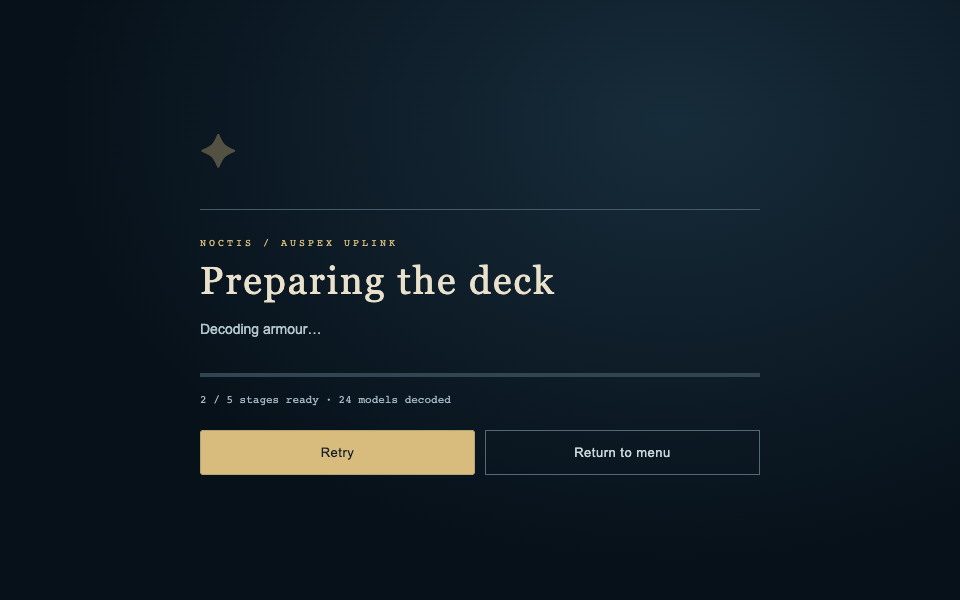
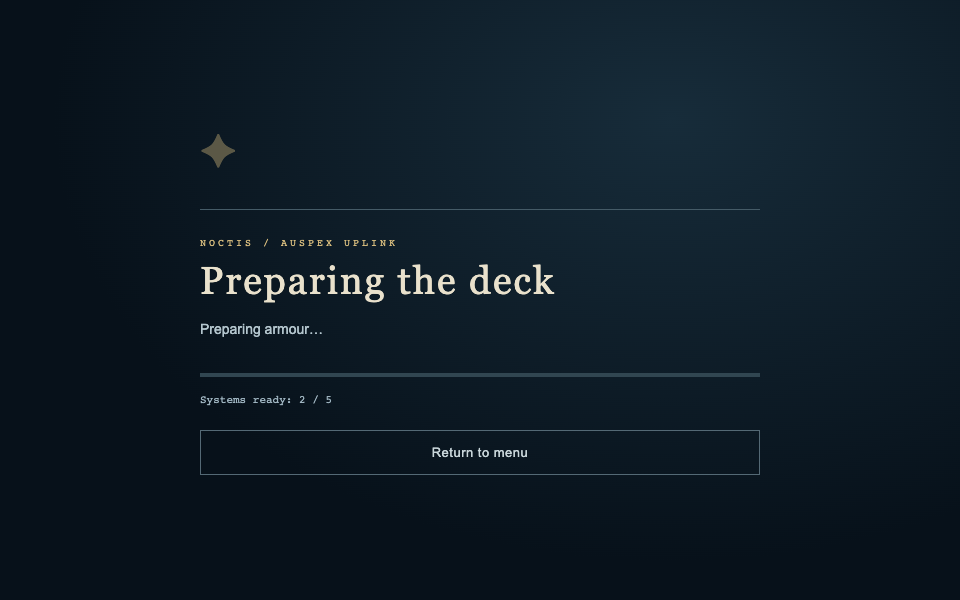
snapshot snap_01a1e9a33b577000a80e: checkpoint: Vérifications et version Reload

Changed region(s): [[0.1875, 0.66, 0.5625, 0.81], [0.2188, 0.54, 0.3438, 0.57], [0.5938, 0.75, 0.6875, 0.78]]

diff --git a/scripts/check-i18n-fps.ts b/scripts/check-i18n-fps.ts
@@ -7,8 +7,8 @@ try{
  const page=await browser.newPage({locale:language==='fr'?'fr-FR':'en-GB',viewport:{width:1280,height:800}}),errors:string[]=[],failed:string[]=[],optionalMissing:string[]=[];
  page.on('pageerror',e=>errors.push(e.message));page.on('response',r=>{if(r.status()>=400)(r.url().endsWith('/music-local/manifest.json')?optionalMissing:failed).push(r.url());});
  await page.goto('http://127.0.0.1:18231/fps.html?duel=1&seed=527');
- await page.waitForFunction(()=>(window as any).__NL?.bodies?.length===4);
- await page.click('#fps-settings');await page.click('#fps-vox-test');await page.waitForTimeout(3500);await page.click('#fps-vox-nightlords');await page.waitForTimeout(4500);await page.click('#fps-settings-close');
+ await page.locator('#fps-deploy').click();
+ await page.keyboard.press('KeyP');await page.click('#fps-pause-settings');await page.click('#fps-vox-test');await page.waitForTimeout(3500);await page.click('#fps-vox-nightlords');await page.waitForTimeout(4500);await page.click('[data-shell-close]');await page.click('#fps-resume');
  await page.mouse.click(640,400);await page.waitForTimeout(3500);
  await page.keyboard.down('Space');
  for(let i=0;i<20;i++){await page.waitForTimeout(1000);if(await page.evaluate(()=>(window as any).__NL?.done))break;}
@@ -21,9 +21,9 @@ try{
  await page.screenshot({path:`docs/i18n/fps-duel-${language}.png`});
  assert.match(await page.locator('#msg').innerText(),language==='fr'?/Duel remporté|Armure détruite/:/Duel won|Armour destroyed/);
  await page.goto('http://127.0.0.1:18231/fps.html?seed=527');await page.waitForFunction(()=>(window as any).__NL?.genestealersLoaded===6);
- await page.mouse.click(640,400);await page.keyboard.down('KeyW');await page.waitForTimeout(1500);await page.keyboard.up('KeyW');await page.keyboard.down('Space');await page.waitForTimeout(1200);await page.keyboard.up('Space');await page.keyboard.press('KeyP');await page.keyboard.press('Escape');
- await page.click('#fps-settings');await page.locator(`#fps-settings-panel [data-locale="${language==='fr'?'en':'fr'}"]`).click();
- const before=await page.evaluate(()=>(window as any).__NL.playerPosition);await page.locator(`#fps-settings-panel [data-locale="${language}"]`).click();assert.deepEqual(await page.evaluate(()=>(window as any).__NL.playerPosition),before);await page.click('#fps-settings-close');
+ await page.locator('#fps-deploy').click();await page.keyboard.down('KeyW');await page.waitForTimeout(1500);await page.keyboard.up('KeyW');await page.keyboard.down('Space');await page.waitForTimeout(1200);await page.keyboard.up('Space');await page.keyboard.press('KeyP');
+ await page.click('#fps-pause-settings');await page.locator(`.shell-modal [data-locale="${language==='fr'?'en':'fr'}"]`).click();
+ const before=await page.evaluate(()=>(window as any).__NL.playerPosition);await page.locator(`.shell-modal [data-locale="${language}"]`).click();assert.deepEqual(await page.evaluate(()=>(window as any).__NL.playerPosition),before);await page.click('[data-shell-close]');
  const text=await page.locator('body').innerText();if(language==='en')assert.ok(!/[àâçéèêëîïôùûüœ]/i.test(text));
  await page.screenshot({path:`docs/i18n/fps-mission-${language}.png`});
  const mission=await page.evaluate(()=>(window as any).__NL);assert.ok(mission.tick>0);assert.equal(mission.genestealersLoaded,6);

diff --git a/scripts/check-i18n-smoke.ts b/scripts/check-i18n-smoke.ts
@@ -5,20 +5,20 @@ const browser=await chromium.launch({headless:true,args:['--use-angle=metal']});
 try{
  const context=await browser.newContext({locale:'en-GB',viewport:{width:1280,height:800}}),page=await context.newPage(),errors:string[]=[];
  page.on('pageerror',e=>errors.push(e.message));
- await page.goto('http://127.0.0.1:18231/');await page.locator('#start').waitFor();
+ await page.goto('http://127.0.0.1:18231/strategy.html');await page.locator('#start').waitFor();
  assert.equal(await page.locator('html').getAttribute('lang'),'en');
  await page.screenshot({path:'docs/i18n/welcome-en.png'});writeFileSync('docs/i18n/welcome-en.txt',await page.locator('body').innerText());
  await page.locator('#modal [data-locale="fr"]').click();assert.match(await page.locator('#start').innerText(),/DÉPLOYER/);
  await page.locator('#modal [data-locale="en"]').click();await page.click('#start');
  const before=await page.evaluate(()=>(window as any).render_game_to_text());
  await page.click('#sound');await page.locator('#modal [data-locale="fr"]').click();
- assert.equal(before,await page.evaluate(()=>(window as any).render_game_to_text()));
+ const after=JSON.parse(await page.evaluate(()=>(window as any).render_game_to_text()));assert.deepEqual(after,{...JSON.parse(before),paused:true});
  await page.click('#audio-close');await page.reload();await page.locator('#start').waitFor();assert.equal(await page.locator('html').getAttribute('lang'),'fr');
  await page.locator('#modal [data-locale="en"]').click();await page.click('#start');
  await page.screenshot({path:'docs/i18n/tactical-en.png'});writeFileSync('docs/i18n/tactical-en.txt',await page.locator('body').innerText());
  await page.goto('http://127.0.0.1:18231/fps.html');await page.waitForFunction(()=>(window as any).__NL?.genestealersLoaded===6);await page.screenshot({path:'docs/i18n/fps-en.png'});writeFileSync('docs/i18n/fps-en.txt',await page.locator('body').innerText());
- await page.click('#fps-settings');await page.locator('#fps-settings-panel [data-locale="fr"]').click();await page.click('#fps-settings-close');assert.equal(await page.locator('html').getAttribute('lang'),'fr');
- await page.setViewportSize({width:390,height:844});await page.goto('http://127.0.0.1:18231/');await page.locator('#start').waitFor();
+ await page.locator('#fps-deploy').click();await page.keyboard.press('KeyP');await page.click('#fps-pause-settings');await page.locator('.shell-modal [data-locale="fr"]').click();await page.click('[data-shell-close]');assert.equal(await page.locator('html').getAttribute('lang'),'fr');
+ await page.setViewportSize({width:390,height:844});await page.goto('http://127.0.0.1:18231/strategy.html');await page.locator('#start').waitFor();
  for(const lang of ['fr','en']){await page.locator(`#modal [data-locale="${lang}"]`).click();await page.locator('#start').scrollIntoViewIfNeeded();assert.ok(await page.evaluate(()=>document.documentElement.scrollWidth<=innerWidth));assert.ok(await page.locator('#start').isVisible());}
  await page.selectOption('#mission','blackout');await page.locator('#start').click();assert.equal(JSON.parse(await page.evaluate(()=>(window as any).render_game_to_text())).view.tactics.mission,'blackout');
  assert.deepEqual(errors,[]);console.log('Locale detection, controls, live switching and persistence passed.');

diff --git a/web/ui/shell.ts b/web/ui/shell.ts
@@ -10,7 +10,7 @@ export function openPanel(title:string,body:string,close:()=>void,kicker='NOCTIS
  setHTML(root,`<section class="shell-card"><div class="shell-heading"><div><small class="shell-kicker">${kicker}</small><h2 id="shell-title">${title}</h2></div><button class="shell-close" data-shell-close>Retour</button></div>${body}</section>`);
  const dispose=()=>{root.querySelectorAll<HTMLMediaElement>('video,audio').forEach(media=>{media.pause();media.removeAttribute('src');media.querySelectorAll('source').forEach(source=>source.remove());media.load();});root.remove();siblings.forEach((e,i)=>e.inert=inertBefore[i]);previous?.focus();};
  root.querySelector('[data-shell-close]')!.addEventListener('click',()=>{dispose();close();});
- root.addEventListener('keydown',e=>{if(e.key==='Escape'){e.preventDefault();e.stopPropagation();dispose();close();}if(e.key==='Tab'){const nodes=[...root.querySelectorAll<HTMLElement>('button,a[href],input,select')].filter(el=>!el.hasAttribute('disabled'));const first=nodes[0],last=nodes.at(-1);if(e.shiftKey&&document.activeElement===first){e.preventDefault();last?.focus();}else if(!e.shiftKey&&document.activeElement===last){e.preventDefault();first?.focus();}}});
+ root.addEventListener('keydown',e=>{if(e.key==='Escape'){e.preventDefault();e.stopPropagation();dispose();close();}if(e.key==='Tab'){const nodes=[...root.querySelectorAll<HTMLElement>('button,a[href],input,select,video[controls],audio[controls],[tabindex]')].filter(el=>!el.hasAttribute('disabled')&&el.tabIndex>=0&&el.getClientRects().length>0);const first=nodes[0],last=nodes.at(-1);if(e.shiftKey&&document.activeElement===first){e.preventDefault();last?.focus();}else if(!e.shiftKey&&document.activeElement===last){e.preventDefault();first?.focus();}}});
  root.querySelector<HTMLButtonElement>('button')?.focus();return {root,dispose};
 }
 export const languageSettings=()=>`${languagePicker()}<p>La langue choisie s’applique aux textes, aux sous-titres et aux voix.</p>`;

diff --git a/scripts/check-i18n-match.ts b/scripts/check-i18n-match.ts
@@ -9,7 +9,7 @@ const browser=await chromium.launch({headless:true,args:['--use-angle=metal']});
 try{
  const page=await browser.newPage({locale:language==='fr'?'fr-FR':'en-GB',viewport:{width:1280,height:800}}),errors:string[]=[],failed:string[]=[];
  page.on('pageerror',e=>errors.push(e.message));page.on('response',r=>{if(r.status()>=400)failed.push(r.url());});
- await page.goto('http://127.0.0.1:18231/');await page.locator('#start').waitFor();
+ await page.goto('http://127.0.0.1:18231/strategy.html');await page.locator('#start').waitFor();
  assert.equal(await page.locator('#mission option').count(),3);assert.equal(await page.locator('#configuration option').count(),3);
  await page.selectOption('#enemy','ppo');await page.click('#start');await page.click('#overview');
  await page.click('#sound');await page.click('#vox-test');await page.waitForTimeout(3500);await page.click('#vox-test-nightlords');await page.waitForTimeout(4000);await page.click('#audio-close');

diff --git a/docs/menu/README.md b/docs/menu/README.md
@@ -1,0 +1,19 @@
+# Menu et chargements — vérification du 17 novembre 2026
+
+## Parcours livré
+
+Écran titre Noctis, choix tactique / opération Cendres FPS / duel Talos, paramètres, commandes, pause, reprise et retour au menu avec confirmation pendant une partie. Préférence FR/EN et volume général conservés. La transmission vidéo fournie par le joueur est facultative et se lance depuis le menu ; son contenu original reste inchangé.
+
+## Vérifications
+
+Contrôle dans l’aperçu Genex : accueil → choix du mode → chargement → briefing tactique → retour au menu, quatre interactions reconnues, aucune erreur console. Capture : `live-home-fr.jpg`.
+
+- `bun run build:studio` : construction réussie.
+- 59 tests ciblés : 0 échec, couvrant chargement, localisation, simulation tactique, présentation, VOX, duel et mission.
+- `bun scripts/check-menu.ts` : parcours FR/EN, conservation des ordres, pause pendant une résolution tactique, compteur et position FPS figés, reprise, changements de langue, lecture vidéo, affichage 960 × 600 et 390 × 844 ; aucune erreur de page ni ressource requise manquante. Preuve : `navigation.json` et captures.
+- `bun scripts/check-loading.ts` : ressource requise retenue puis libérée, échec HTTP 503 puis réessai réussi, dans les trois modes. Aucun déploiement tant que la scène est incomplète ; bouton de réessai réservé à l’erreur ; aucun pourcentage inventé. Preuve : `loading.json` et captures.
+- `bun scripts/check-i18n-smoke.ts` : détection, changement de langue, mémorisation et préparation de mission vérifiés après le nouveau menu.
+
+La progression décrit cinq systèmes réellement préparés ; la barre reste indéterminée, car la taille finale des dépendances n’est pas connue. La scène est rendue avant de proposer le déploiement. Les sons restent diffusés à la demande comme auparavant : cette étape ne prétend pas précharger toutes les répliques VOX.
+
+Les essais de cette étape portent sur les parcours et les pauses ; les parties complètes bilingues de l’étape précédente ne sont pas présentées comme rejouées ici. Les règles et l’entraînement IgnitionRL n’ont pas été modifiés. La campagne attend toujours la validation de la boucle de jeu. Aucune publication ni modification de couverture.
